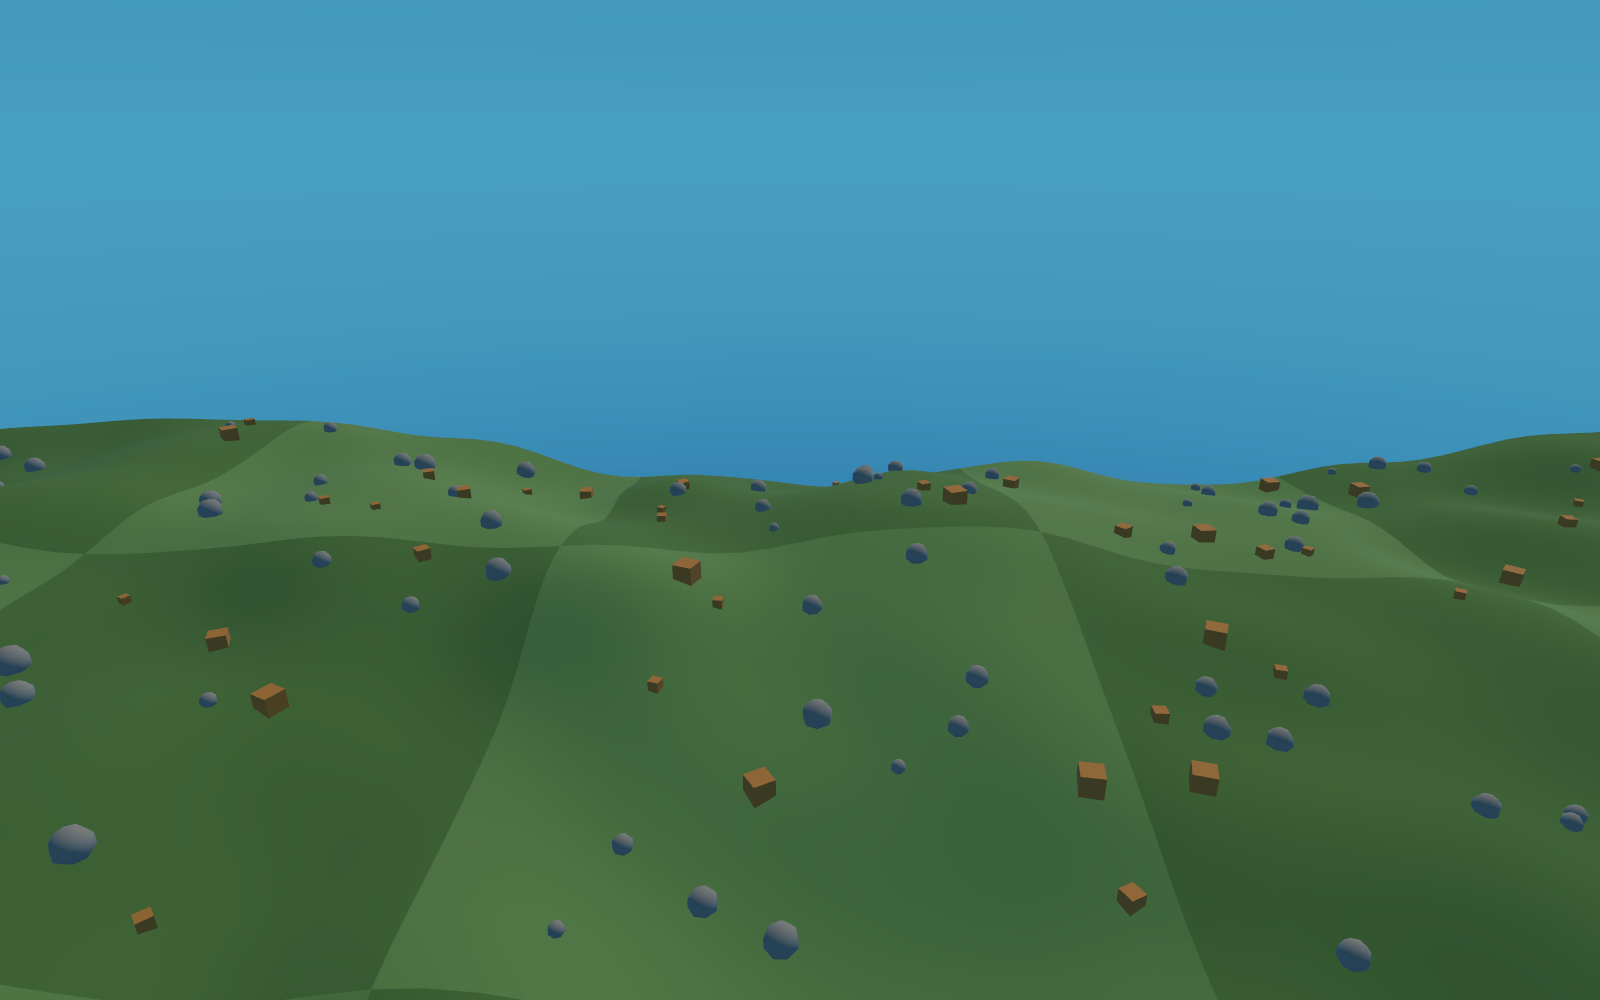
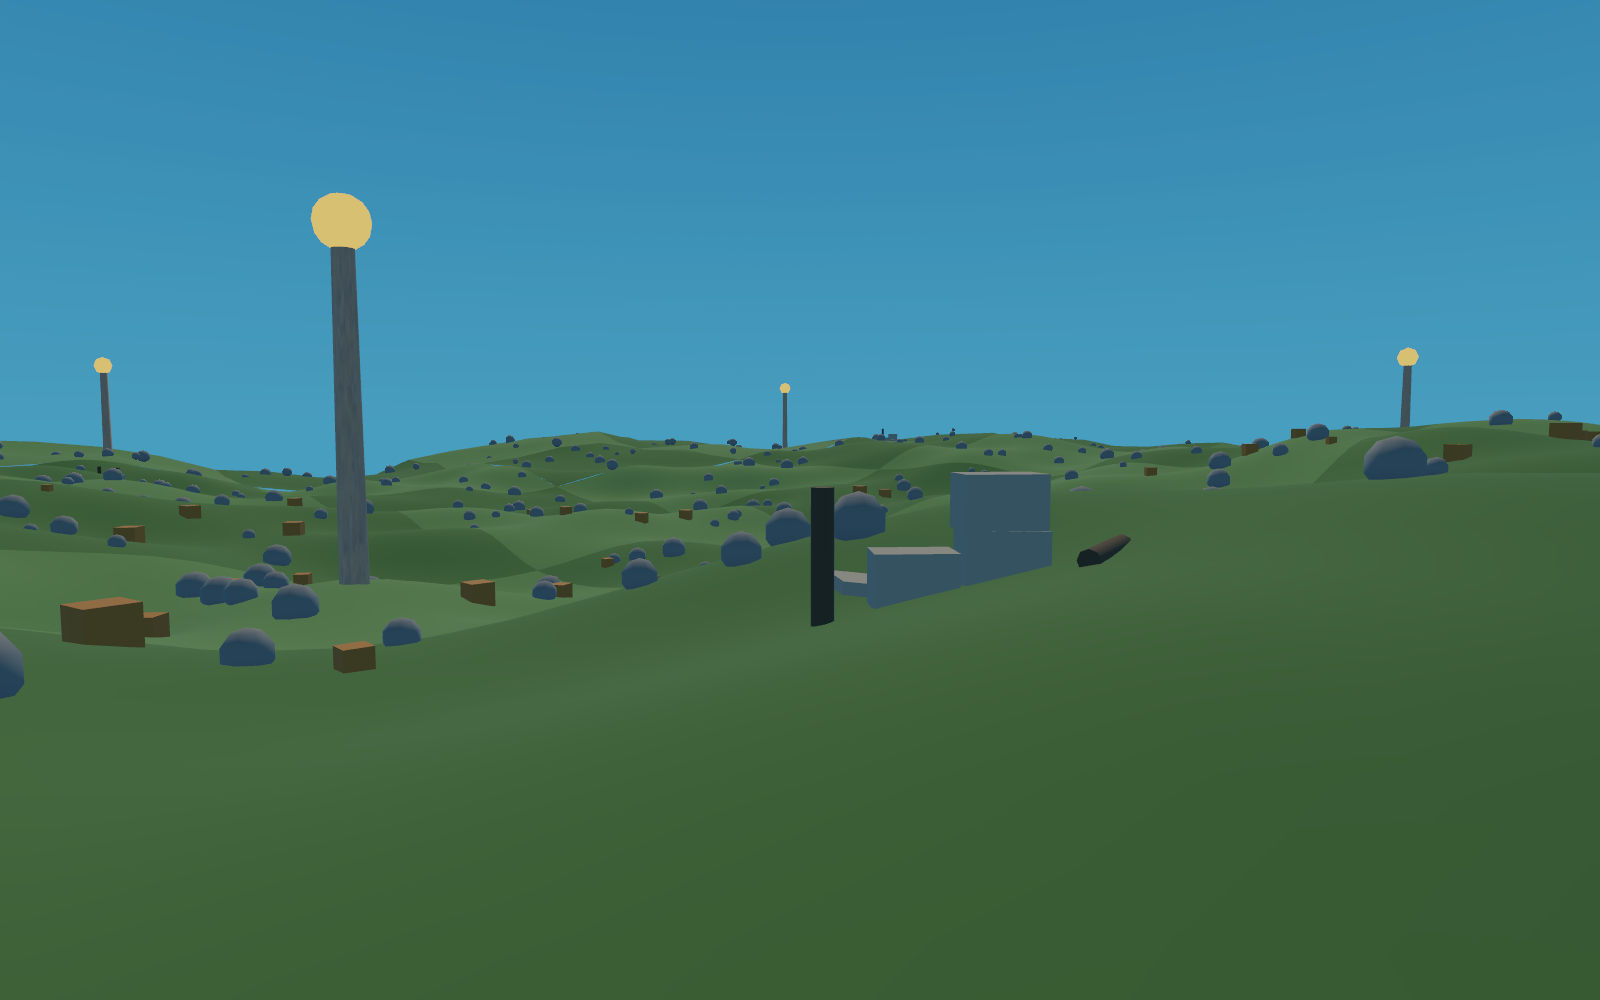
HLOD streaming cell proxies, phase 3 - section 4

diff --git a/docs/plans/p377_hlod-streaming-cell-proxies.md b/docs/plans/p377_hlod-streaming-cell-proxies.md
@@ -1,4 +1,4 @@
-Status: in progress | Phases 0-2 implemented (2026-11-12); Phases 2-6 written from Phase 0's Results (far entries for kit meshes, the larger-cells recommendation)
+Status: in progress | Phases 0-3 implemented (2026-11-12); Phases 2-6 written from Phase 0's Results (far entries for kit meshes, the larger-cells recommendation)
 Category: Merging, LOD, Streaming
 Epic: p370_static-mesh-merging-and-texture-atlas-systems.md (Tier 3.2)
 Related: p376_hlod-merged-cluster-proxies.md (not adopted: its Phase 0's measurements and spike tools), \_DONE_p353_macro-streaming-grid.md (the far layer and its JSON far entries), p306_terrain-blocks-and-procedural-terrain-meshes.md (a block with its dressing as one far proxy), \_DONE_p347_lod-chain-generation.md (the build-time simplifier), \_DONE_p371_geometry-merging.md (the build-time GLB merge), \_DONE_p372_mesh-merge-groups.md (`AUTO` cells, the groups' cull), \_DONE_p374_multi-material-merging.md (palettes: one draw for several materials), \_DONE_p375_batched-mesh-batches.md (a batched member's mesh out of the scene graph), p378_baked-members-out-of-the-scene-graph.md (open question 5, split off after Phase 0)
@@ -523,7 +523,7 @@ streamingGrid` inside its baseline).
   from the commits since `bundle.json` was last recorded (p376's and p377 Phase 0's, on
   largeWorld's spike modules). Left for Phase 5's `yarn verify:baselines --update`.
 
-## Phase 3 — streamingGrid: kit content near and far
+## Phase 3 — streamingGrid: kit content near and far — done
 
 D7: the far layer's real path on kit content, merged near.
 
@@ -638,6 +638,19 @@ Exit: the above recorded under the phase; `yarn verify:scenes --only streamingGr
   frustum; three culls a far group by its bounds): at Phase 0's 2.1-2.8 µs a draw, about 0.01 ms,
   well inside the runs' spread (a run's median moves 1-1.5 ms between runs of one case, both
   ways: Chrome's frame pacing, not the content). So no cost measurable at this size; not gating.
+
+**As built** (2026-11-12, section 4):
+
+- **The scene runner**: `yarn verify:scenes --only streamingGrid --update` recorded all five
+  configurations (`workerSab`, `workerMsg`, `mainThread`, `prodTest`, `debugger`) on the same hash
+  as before, `811c9dc5` (no bodies; its snapshot is skipped, so the ruins change no recorded
+  figure but the debugger's shots, which are unstable by its settings); then the plain run: 5
+  passed. That's the exit.
+- **The Hub image** (`streamingGrid.hub.png`, 1600 × 1000, the Hub tab's `saveHubImageAsync`
+  through the dev files, called by a script): a still camera at (68, 11, 72) looking towards
+  (180, 0, 165), the cells settled (loaded, primed, no fade running): the merged ruin of cell
+  (1, 1) in front, a beacon near and three far, the far rings to the skyline. It was the flight's
+  start before (no ruin in view).
 
 ## Phase 4 — The Hub: larger cells for a large far field
 
